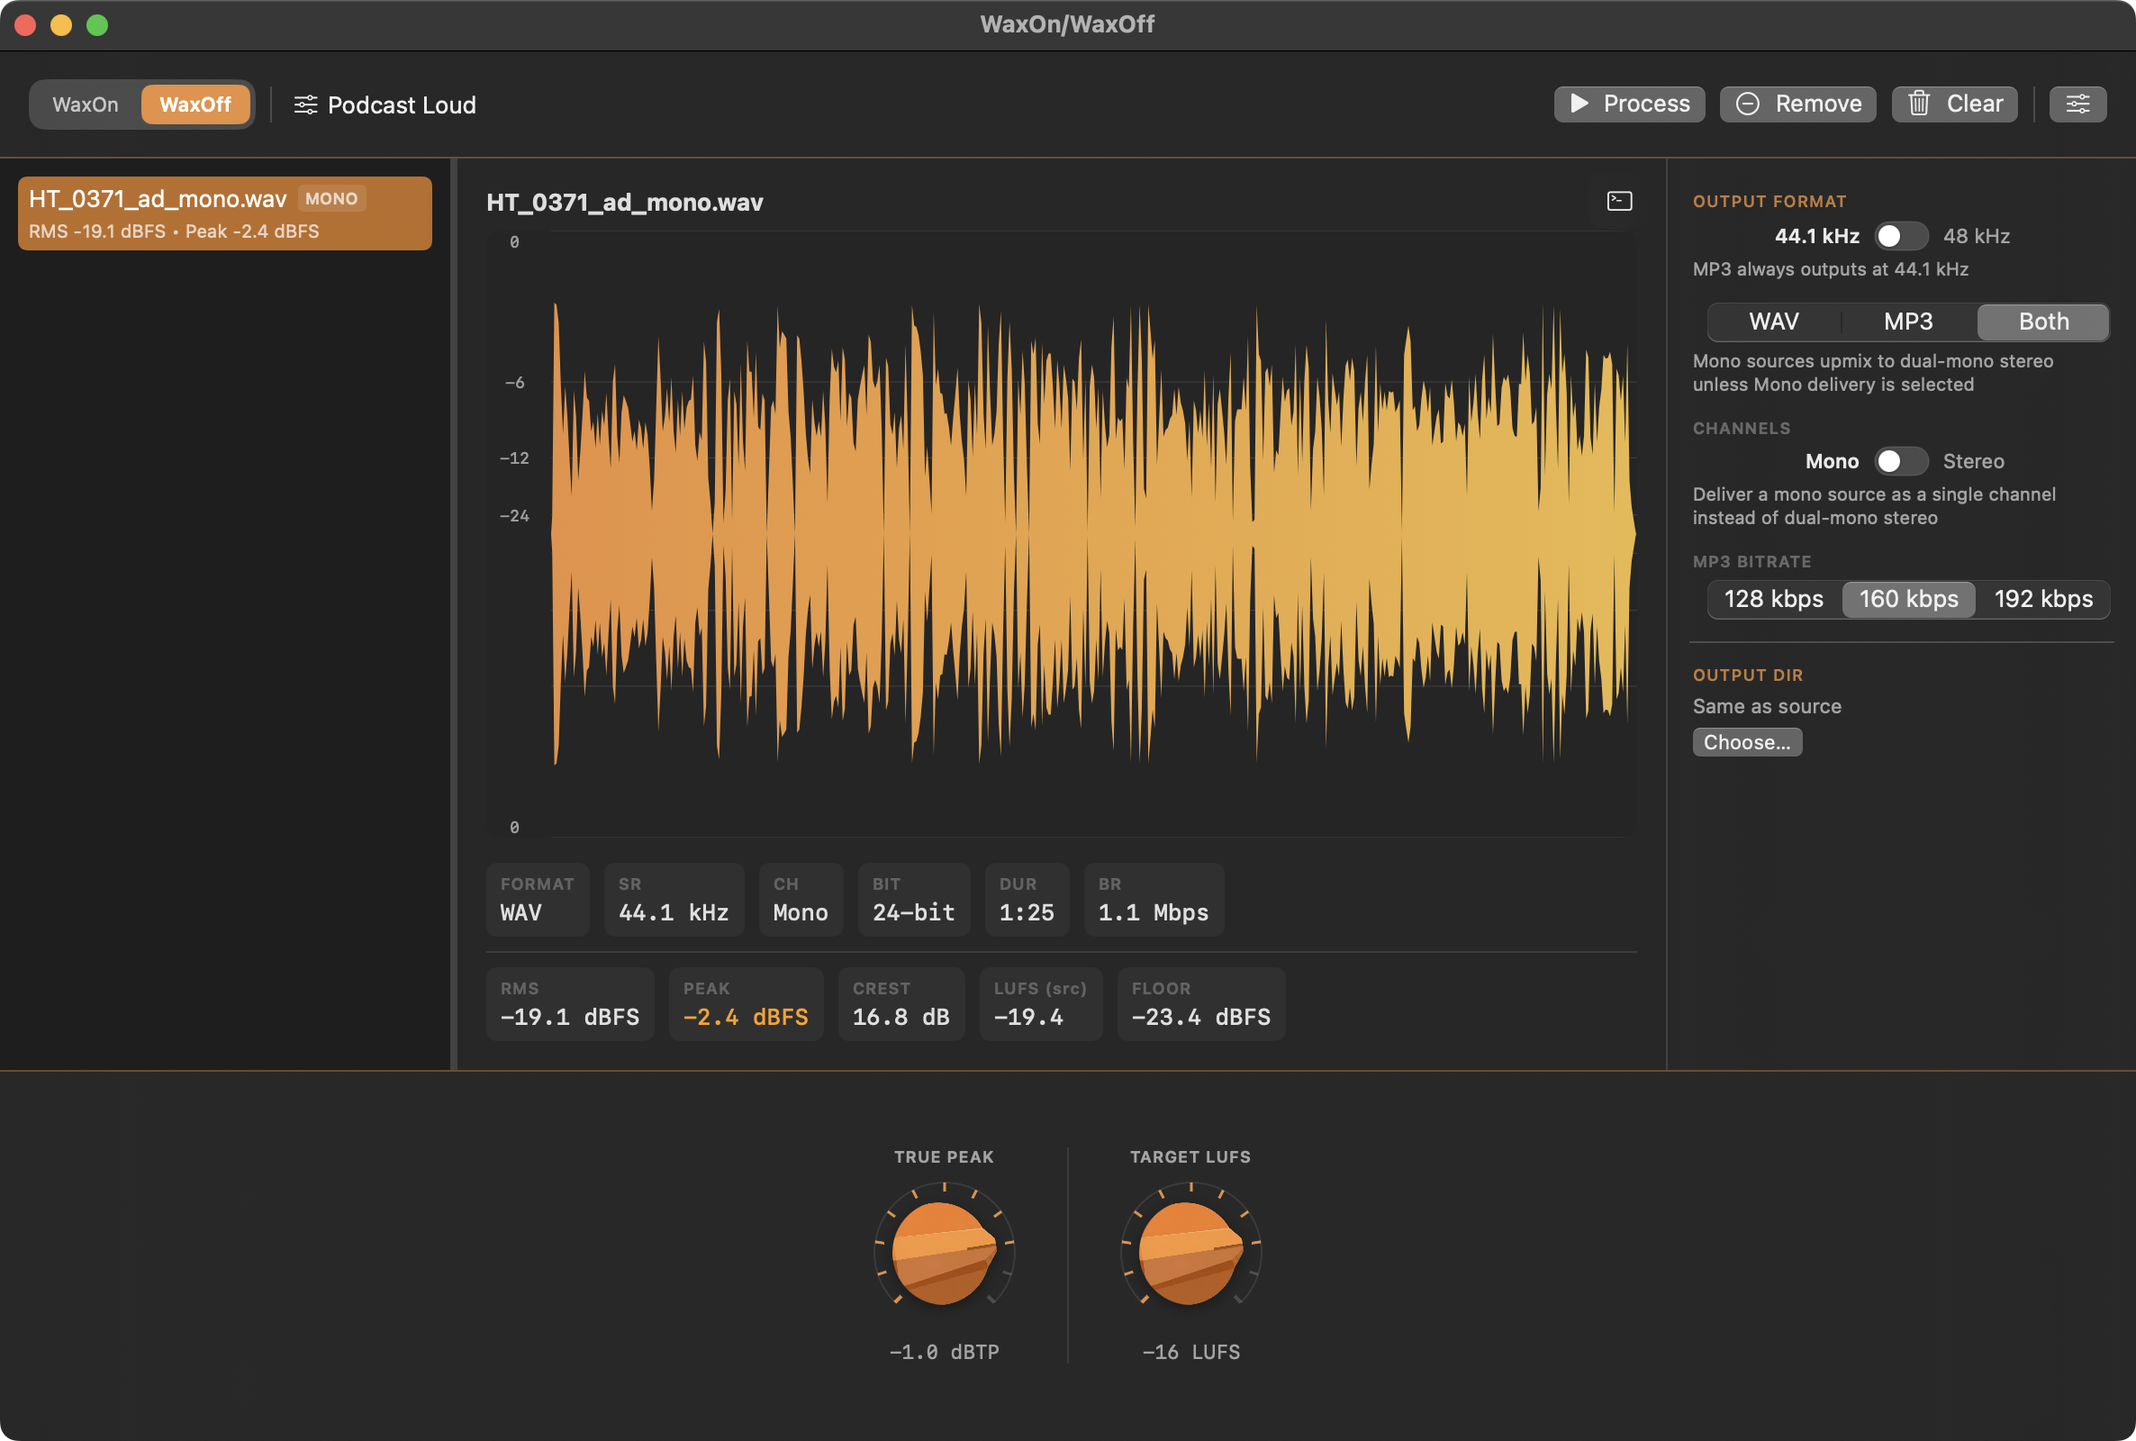
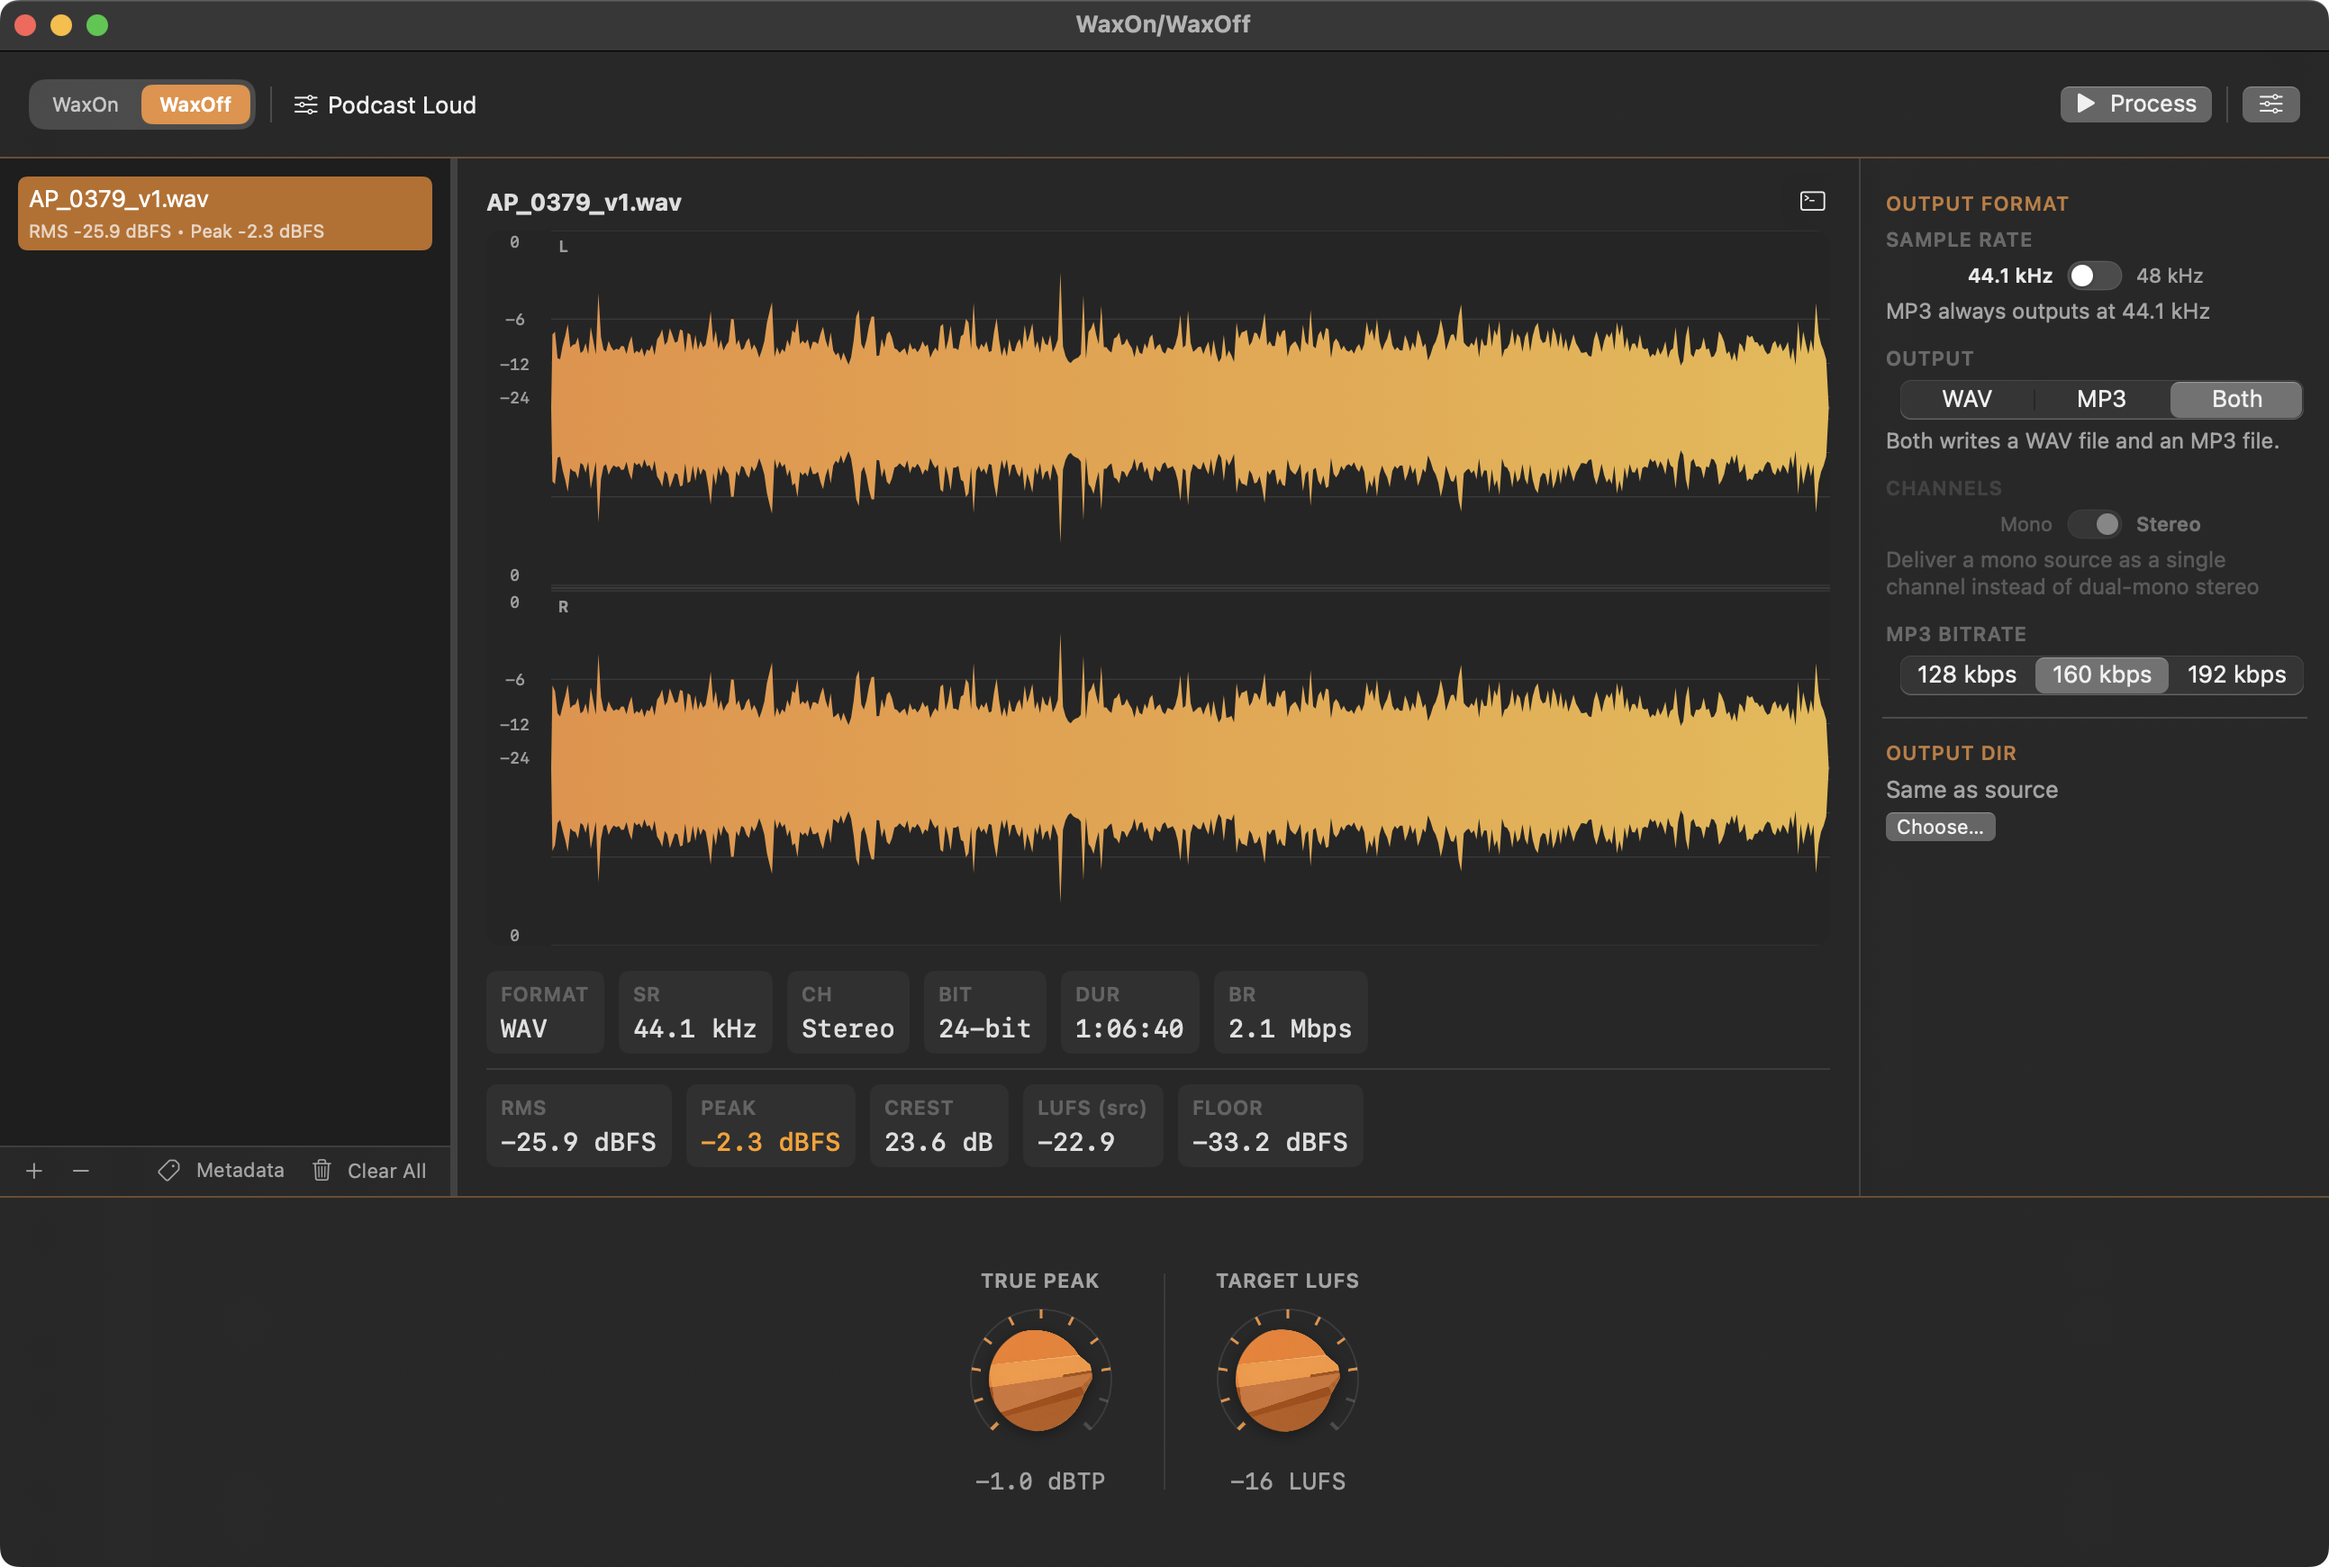
docs: reshoot both screenshots for the 2.12.0 interface
Both were taken in July and show a toolbar that no longer exists: Remove
and Clear sat next to Process until 2.12.0 moved list management into the
bar under the list. The new pair shows that bar in both modes — with
Metadata in WaxOff and without it in WaxOn, which is the difference worth
seeing.

The landing page's WaxOff alt text described a mono source. The new shot
is stereo, so it said the wrong thing to anyone reading by screen reader.

diff --git a/docs/index.html b/docs/index.html
@@ -539,7 +539,7 @@
           <span class="screenshot-caption"><span class="mode-tag">WaxOn</span>Raw recording prep — waveform audit &amp; conditioning</span>
         </div>
         <div class="screenshot-item">
-          <img src="images/waxoff-complete.png" alt="WaxOff — mono source set for EBU R128 delivery">
+          <img src="images/waxoff-complete.png" alt="WaxOff — stereo source set for EBU R128 delivery">
           <span class="screenshot-caption"><span class="mode-tag">WaxOff</span>Broadcast delivery — EBU R128 to target loudness</span>
         </div>
       </div>
